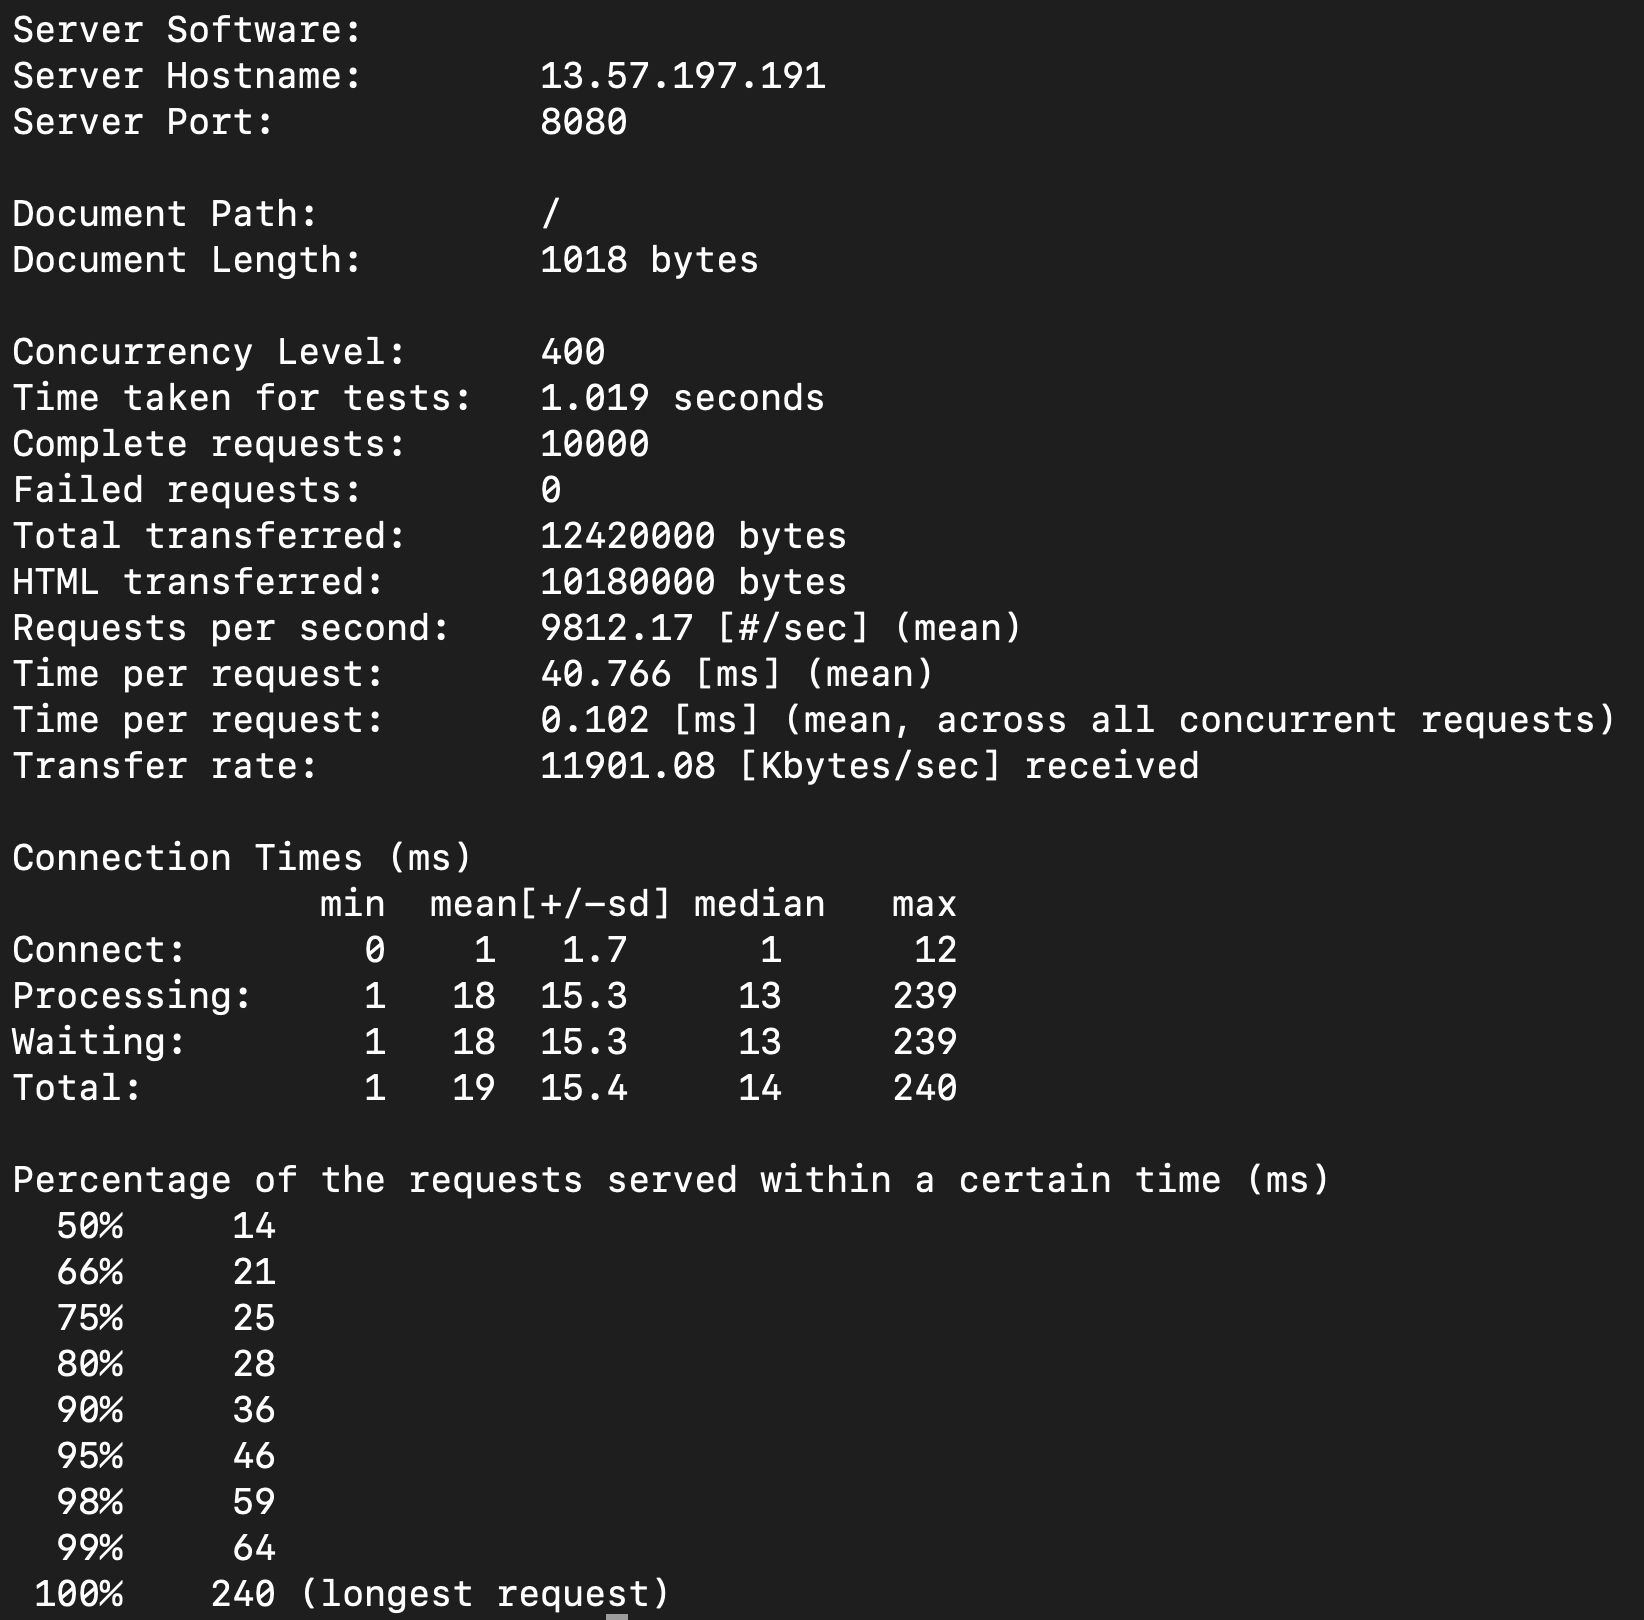
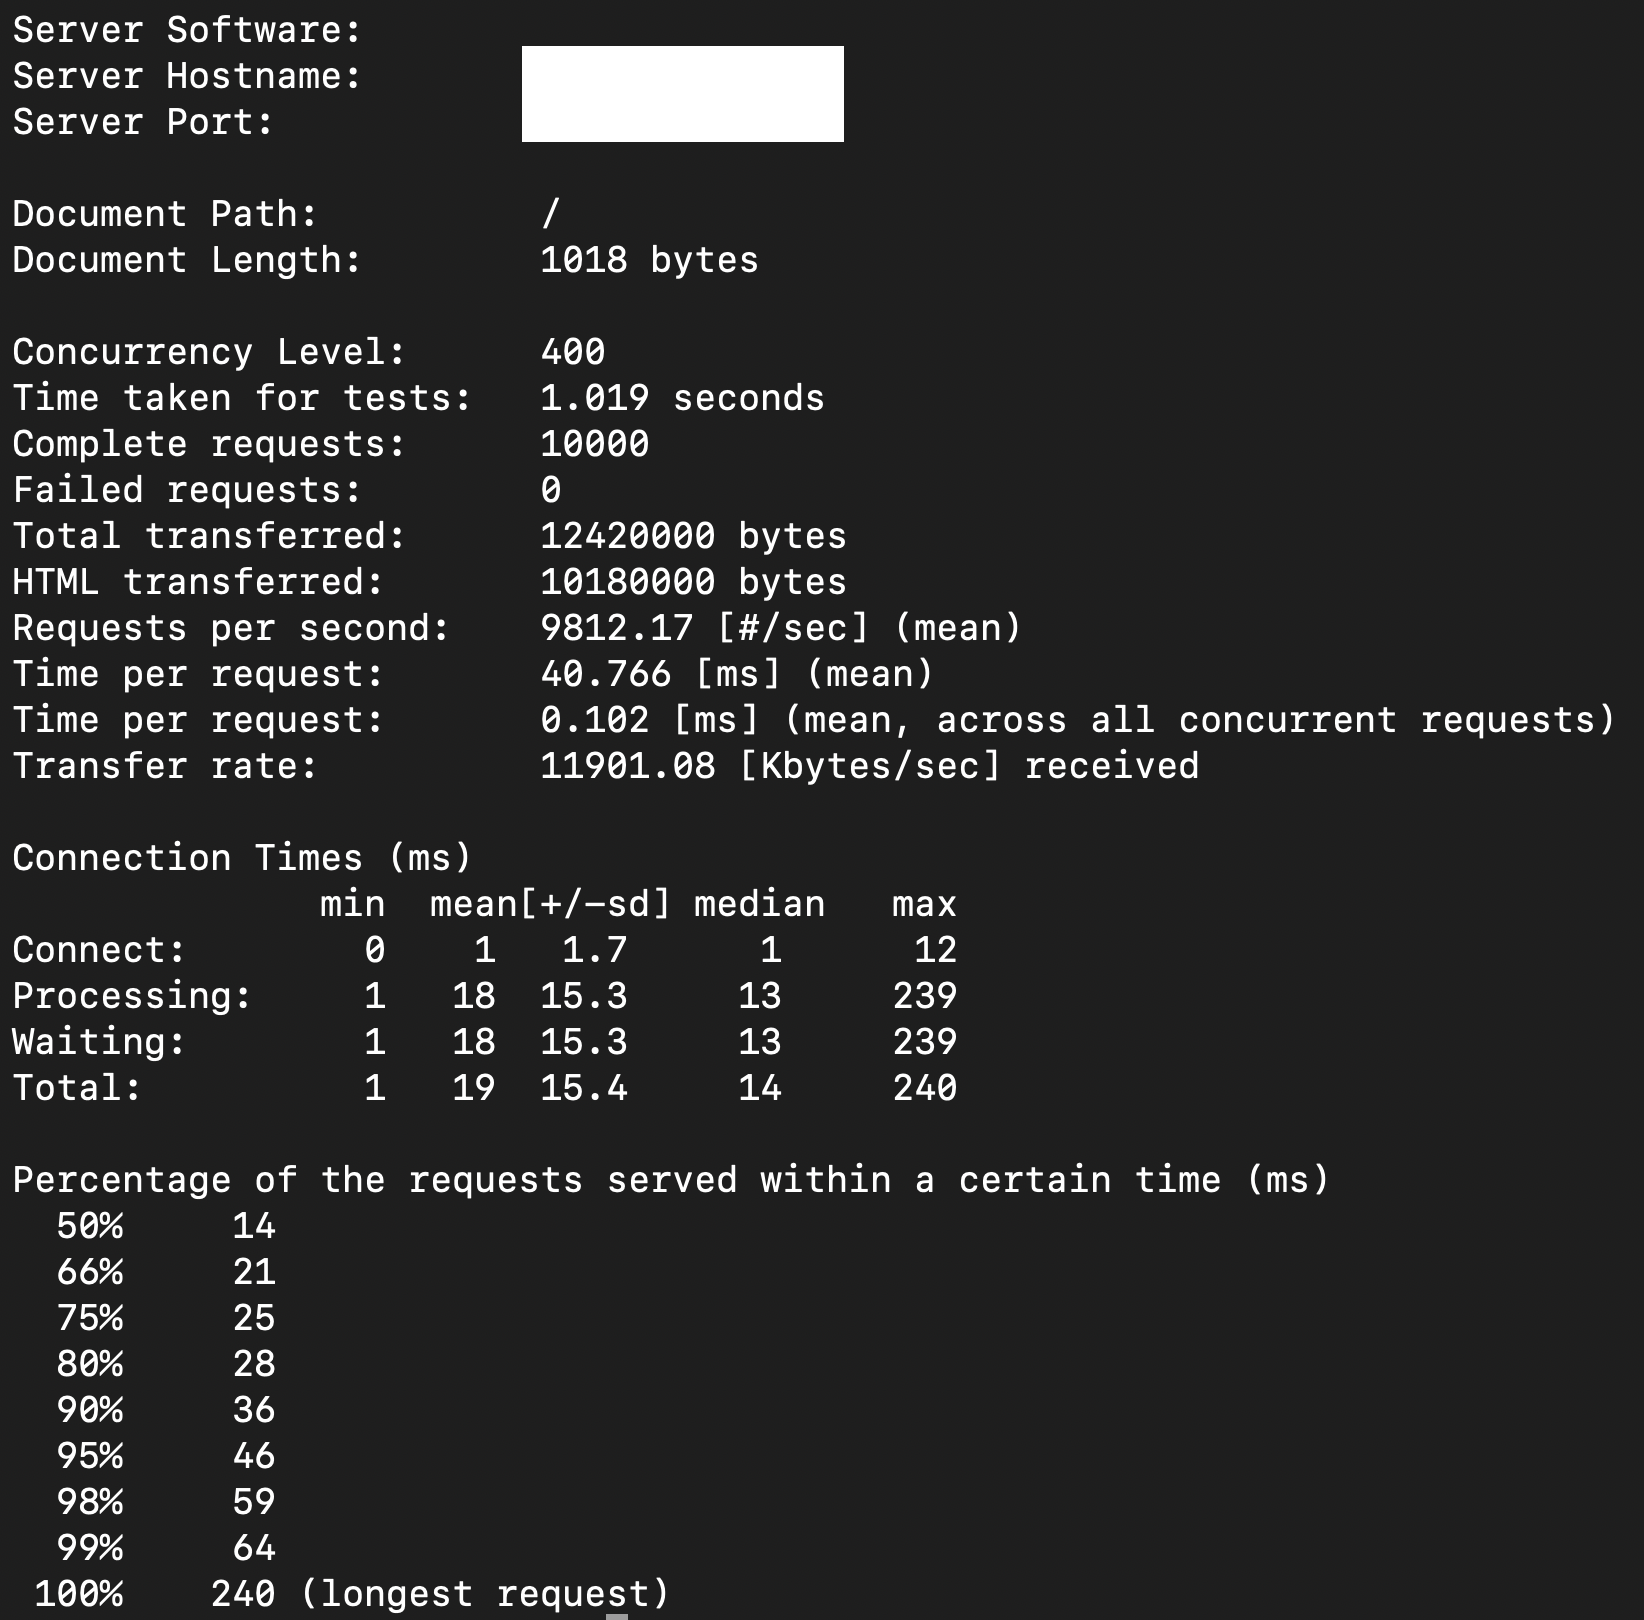
Readme improvement

Changed region(s): [[0.3102, 0.0309, 0.5274, 0.0926]]

diff --git a/README.md b/README.md
@@ -6,12 +6,12 @@ There are multiple tools for this purpose. Out of which the popular ones are JMe
 Benching is done by writing a small GET api which returns a small string and deployed to ml.t3.micro on aws instance. Traffic is generated by using different ml.t3.micro instance. 
 
 ## Apache Bench
-```ab -n 10000 -c 400 13.57.197.191:8080/```
+```ab -n 10000 -c 400 00.00.00.00:0000/```
 ![Apache Benchmark](ab.png)
 
 
 ## Wrk
-```wrk -t12 -c400 -d30s http://13.57.197.191:8080```
+```wrk -t12 -c400 -d30s http://00.00.00.00:0000```
 ![Wrk](wrk.png)
 
 ## K6
@@ -35,7 +35,7 @@ export const options = {
 // 2. Define the test logic
 export default function () {
   // Replace with your actual GET API endpoint URL
-  const url = 'http://15.10.5.143:8080'; 
+  const url = 'http://00.00.00.00:00'; 
   
   const response = http.get(url);
 
